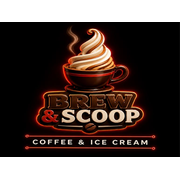
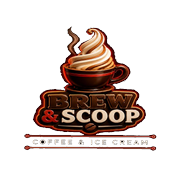
Fix washed-out sidebar and tighten profile layout.
Give the sidebar a solid espresso fallback so nav stays readable when derived CSS tokens fail, cache-bust static assets, and clean the logo plate for darker chrome.

diff --git a/static/css/layout/sidebar.css b/static/css/layout/sidebar.css
@@ -2,10 +2,16 @@
 
 .sidebar {
   width: var(--sidebar-width);
-  background:
-    linear-gradient(180deg, color-mix(in srgb, var(--caramel) 10%, transparent) 0%, transparent 38%),
-    linear-gradient(180deg, var(--espresso) 0%, var(--espresso-deep) 100%);
-  color: var(--cream);
+  /* Solid fallback first — if color-mix/gradients fail, nav stays readable */
+  background-color: var(--espresso, #2c1810);
+  background-image:
+    linear-gradient(180deg, color-mix(in srgb, var(--caramel, #c4a574) 10%, transparent) 0%, transparent 38%),
+    linear-gradient(
+      180deg,
+      var(--espresso, #2c1810) 0%,
+      var(--espresso-deep, #1f0f08) 100%
+    );
+  color: #f5e6d3;
   display: flex;
   flex-direction: column;
   position: fixed;
@@ -14,13 +20,13 @@
   bottom: 0;
   z-index: 100;
   padding: 1.35rem 0.85rem;
-  border-right: 1px solid color-mix(in srgb, var(--caramel) 22%, transparent);
-  box-shadow: 4px 0 40px color-mix(in srgb, var(--espresso) 18%, transparent);
+  border-right: 1px solid color-mix(in srgb, var(--caramel, #c4a574) 22%, transparent);
+  box-shadow: 4px 0 40px color-mix(in srgb, var(--espresso, #2c1810) 18%, transparent);
   overflow-x: hidden;
   overflow-y: auto;
   overscroll-behavior: contain;
   scrollbar-width: thin;
-  scrollbar-color: color-mix(in srgb, var(--caramel) 35%, transparent) transparent;
+  scrollbar-color: color-mix(in srgb, var(--caramel, #c4a574) 35%, transparent) transparent;
 }
 
 .sidebar::-webkit-scrollbar {
@@ -53,10 +59,14 @@
 
 .brand-logo {
   width: 100%;
-  max-width: 210px;
+  max-width: 200px;
   height: auto;
+  max-height: 132px;
   display: block;
   object-fit: contain;
+  border-radius: 12px;
+  background: rgba(0, 0, 0, 0.22);
+  padding: 0.35rem;
   filter: drop-shadow(0 4px 16px rgba(0, 0, 0, 0.35));
 }
 
@@ -311,10 +321,10 @@
   padding: 0.7rem 0.9rem;
   border: none;
   background: transparent;
-  color: color-mix(in srgb, var(--cream) 65%, transparent);
+  color: rgba(245, 230, 211, 0.88);
   font-family: var(--font-body);
   font-size: 0.875rem;
-  font-weight: 500;
+  font-weight: 600;
   border-radius: var(--radius-sm);
   cursor: pointer;
   transition: all var(--transition);
@@ -326,13 +336,13 @@
   width: 19px;
   height: 19px;
   flex-shrink: 0;
-  opacity: 0.75;
+  opacity: 0.9;
   transition: opacity var(--transition);
 }
 
 .nav-item:hover {
-  background: color-mix(in srgb, var(--cream) 7%, transparent);
-  color: var(--cream);
+  background: rgba(245, 230, 211, 0.1);
+  color: #faf6f1;
 }
 
 .nav-item:hover svg {
@@ -342,11 +352,11 @@
 .nav-item.active {
   background: linear-gradient(
     90deg,
-    color-mix(in srgb, var(--caramel) 34%, transparent) 0%,
-    color-mix(in srgb, var(--caramel) 10%, transparent) 100%
+    color-mix(in srgb, var(--caramel, #c4a574) 40%, transparent) 0%,
+    color-mix(in srgb, var(--caramel, #c4a574) 12%, transparent) 100%
   );
-  color: var(--cream);
-  box-shadow: inset 3px 0 0 var(--caramel);
+  color: #faf6f1;
+  box-shadow: inset 3px 0 0 var(--caramel, #c4a574);
 }
 
 .nav-item.active svg {
@@ -417,6 +427,7 @@
 .user-meta strong {
   display: block;
   font-size: 0.82rem;
+  color: #faf6f1;
   white-space: nowrap;
   overflow: hidden;
   text-overflow: ellipsis;
@@ -425,13 +436,13 @@
 .user-meta span {
   display: block;
   font-size: 0.68rem;
-  color: color-mix(in srgb, var(--cream) 55%, transparent);
+  color: rgba(245, 230, 211, 0.72);
   text-transform: capitalize;
 }
 
 .btn-logout {
   padding: 0.4rem;
-  color: color-mix(in srgb, var(--cream) 70%, transparent);
+  color: rgba(245, 230, 211, 0.82);
   flex-shrink: 0;
   border-radius: var(--radius-xs);
 }
@@ -442,7 +453,7 @@
 }
 
 .btn-logout:hover {
-  color: var(--cream);
+  color: #faf6f1;
   background: rgba(255, 255, 255, 0.1);
 }
 

diff --git a/templates/change-password.html b/templates/change-password.html
@@ -4,19 +4,19 @@
   <meta charset="UTF-8">
   <meta name="viewport" content="width=device-width, initial-scale=1.0, viewport-fit=cover">
   <title>Change Password — Brew & Scoop</title>
-  <link rel="icon" type="image/png" sizes="32x32" href="{{ url_for('static', filename='img/favicon-32.png') }}?v=brewscoop2">
-  <link rel="icon" type="image/png" href="{{ url_for('static', filename='img/logo.png') }}?v=brewscoop2">
-  <link rel="apple-touch-icon" href="{{ url_for('static', filename='img/apple-touch-icon.png') }}?v=brewscoop2">
+  <link rel="icon" type="image/png" sizes="32x32" href="{{ url_for('static', filename='img/favicon-32.png') }}?v=brewscoop3">
+  <link rel="icon" type="image/png" href="{{ url_for('static', filename='img/logo.png') }}?v=brewscoop3">
+  <link rel="apple-touch-icon" href="{{ url_for('static', filename='img/apple-touch-icon.png') }}?v=brewscoop3">
   <link rel="preconnect" href="https://fonts.googleapis.com">
   <link rel="preconnect" href="https://fonts.gstatic.com" crossorigin>
   <link href="https://fonts.googleapis.com/css2?family=Fraunces:ital,opsz,wght@0,9..144,500;0,9..144,600;0,9..144,700;1,9..144,500&family=Plus+Jakarta+Sans:ital,wght@0,400;0,500;0,600;0,700;1,400&display=swap" rel="stylesheet">
-  <link rel="stylesheet" href="{{ url_for('static', filename='css/login-main.css') }}">
+  <link rel="stylesheet" href="{{ url_for('static', filename='css/login-main.css') }}?v=brewscoop3">
 </head>
 <body class="login-page">
   <div class="login-layout">
     <aside class="login-hero">
       <img
-        src="{{ url_for('static', filename='img/logo.png') }}?v=brewscoop2"
+        src="{{ url_for('static', filename='img/logo.png') }}?v=brewscoop3"
         alt="Brew & Scoop"
         class="login-logo"
         width="380"

diff --git a/templates/forgot-password.html b/templates/forgot-password.html
@@ -4,19 +4,19 @@
   <meta charset="UTF-8">
   <meta name="viewport" content="width=device-width, initial-scale=1.0, viewport-fit=cover">
   <title>Forgot Password — Brew & Scoop</title>
-  <link rel="icon" type="image/png" sizes="32x32" href="{{ url_for('static', filename='img/favicon-32.png') }}?v=brewscoop2">
-  <link rel="icon" type="image/png" href="{{ url_for('static', filename='img/logo.png') }}?v=brewscoop2">
-  <link rel="apple-touch-icon" href="{{ url_for('static', filename='img/apple-touch-icon.png') }}?v=brewscoop2">
+  <link rel="icon" type="image/png" sizes="32x32" href="{{ url_for('static', filename='img/favicon-32.png') }}?v=brewscoop3">
+  <link rel="icon" type="image/png" href="{{ url_for('static', filename='img/logo.png') }}?v=brewscoop3">
+  <link rel="apple-touch-icon" href="{{ url_for('static', filename='img/apple-touch-icon.png') }}?v=brewscoop3">
   <link rel="preconnect" href="https://fonts.googleapis.com">
   <link rel="preconnect" href="https://fonts.gstatic.com" crossorigin>
   <link href="https://fonts.googleapis.com/css2?family=Fraunces:ital,opsz,wght@0,9..144,500;0,9..144,600;0,9..144,700;1,9..144,500&family=Plus+Jakarta+Sans:ital,wght@0,400;0,500;0,600;0,700;1,400&display=swap" rel="stylesheet">
-  <link rel="stylesheet" href="{{ url_for('static', filename='css/login-main.css') }}">
+  <link rel="stylesheet" href="{{ url_for('static', filename='css/login-main.css') }}?v=brewscoop3">
 </head>
 <body class="login-page">
   <div class="login-layout">
     <aside class="login-hero">
       <img
-        src="{{ url_for('static', filename='img/logo.png') }}?v=brewscoop2"
+        src="{{ url_for('static', filename='img/logo.png') }}?v=brewscoop3"
         alt="Brew & Scoop"
         class="login-logo"
         width="380"

diff --git a/templates/reset-password.html b/templates/reset-password.html
@@ -4,19 +4,19 @@
   <meta charset="UTF-8">
   <meta name="viewport" content="width=device-width, initial-scale=1.0, viewport-fit=cover">
   <title>Reset Password — Brew & Scoop</title>
-  <link rel="icon" type="image/png" sizes="32x32" href="{{ url_for('static', filename='img/favicon-32.png') }}?v=brewscoop2">
-  <link rel="icon" type="image/png" href="{{ url_for('static', filename='img/logo.png') }}?v=brewscoop2">
-  <link rel="apple-touch-icon" href="{{ url_for('static', filename='img/apple-touch-icon.png') }}?v=brewscoop2">
+  <link rel="icon" type="image/png" sizes="32x32" href="{{ url_for('static', filename='img/favicon-32.png') }}?v=brewscoop3">
+  <link rel="icon" type="image/png" href="{{ url_for('static', filename='img/logo.png') }}?v=brewscoop3">
+  <link rel="apple-touch-icon" href="{{ url_for('static', filename='img/apple-touch-icon.png') }}?v=brewscoop3">
   <link rel="preconnect" href="https://fonts.googleapis.com">
   <link rel="preconnect" href="https://fonts.gstatic.com" crossorigin>
   <link href="https://fonts.googleapis.com/css2?family=Fraunces:ital,opsz,wght@0,9..144,500;0,9..144,600;0,9..144,700;1,9..144,500&family=Plus+Jakarta+Sans:ital,wght@0,400;0,500;0,600;0,700;1,400&display=swap" rel="stylesheet">
-  <link rel="stylesheet" href="{{ url_for('static', filename='css/login-main.css') }}">
+  <link rel="stylesheet" href="{{ url_for('static', filename='css/login-main.css') }}?v=brewscoop3">
 </head>
 <body class="login-page">
   <div class="login-layout">
     <aside class="login-hero">
       <img
-        src="{{ url_for('static', filename='img/logo.png') }}?v=brewscoop2"
+        src="{{ url_for('static', filename='img/logo.png') }}?v=brewscoop3"
         alt="Brew & Scoop"
         class="login-logo"
         width="380"

diff --git a/templates/login.html b/templates/login.html
@@ -4,19 +4,19 @@
   <meta charset="UTF-8">
   <meta name="viewport" content="width=device-width, initial-scale=1.0, viewport-fit=cover">
   <title>Sign In — Brew & Scoop</title>
-  <link rel="icon" type="image/png" sizes="32x32" href="{{ url_for('static', filename='img/favicon-32.png') }}?v=brewscoop2">
-  <link rel="icon" type="image/png" href="{{ url_for('static', filename='img/logo.png') }}?v=brewscoop2">
-  <link rel="apple-touch-icon" href="{{ url_for('static', filename='img/apple-touch-icon.png') }}?v=brewscoop2">
+  <link rel="icon" type="image/png" sizes="32x32" href="{{ url_for('static', filename='img/favicon-32.png') }}?v=brewscoop3">
+  <link rel="icon" type="image/png" href="{{ url_for('static', filename='img/logo.png') }}?v=brewscoop3">
+  <link rel="apple-touch-icon" href="{{ url_for('static', filename='img/apple-touch-icon.png') }}?v=brewscoop3">
   <link rel="preconnect" href="https://fonts.googleapis.com">
   <link rel="preconnect" href="https://fonts.gstatic.com" crossorigin>
   <link href="https://fonts.googleapis.com/css2?family=Fraunces:ital,opsz,wght@0,9..144,500;0,9..144,600;0,9..144,700;1,9..144,500&family=Plus+Jakarta+Sans:ital,wght@0,400;0,500;0,600;0,700;1,400&display=swap" rel="stylesheet">
-  <link rel="stylesheet" href="{{ url_for('static', filename='css/login-main.css') }}">
+  <link rel="stylesheet" href="{{ url_for('static', filename='css/login-main.css') }}?v=brewscoop3">
 </head>
 <body class="login-page">
   <div class="login-layout">
     <aside class="login-hero">
       <img
-        src="{{ url_for('static', filename='img/logo.png') }}?v=brewscoop2"
+        src="{{ url_for('static', filename='img/logo.png') }}?v=brewscoop3"
         alt="Brew & Scoop"
         class="login-logo"
         width="380"

diff --git a/templates/index.html b/templates/index.html
@@ -14,13 +14,20 @@
   <link rel="preconnect" href="https://fonts.googleapis.com">
   <link rel="preconnect" href="https://fonts.gstatic.com" crossorigin>
   <link href="https://fonts.googleapis.com/css2?family=Fraunces:ital,opsz,wght@0,9..144,500;0,9..144,600;0,9..144,700;1,9..144,500&family=Plus+Jakarta+Sans:ital,wght@0,400;0,500;0,600;0,700;1,400&display=swap" rel="stylesheet">
-  <link rel="stylesheet" href="{{ url_for('static', filename='css/main.css') }}">
+  <link rel="stylesheet" href="{{ url_for('static', filename='css/main.css') }}?v=brewscoop3">
   <style id="business-branding-vars">
     :root {
       --espresso: {{ brand_primary }};
       --caramel: {{ brand_accent }};
       --brand-primary: {{ brand_primary }};
       --brand-accent: {{ brand_accent }};
+      --espresso-deep: color-mix(in srgb, {{ brand_primary }} 88%, black);
+      --espresso-light: color-mix(in srgb, {{ brand_primary }} 82%, white);
+      --coffee: color-mix(in srgb, {{ brand_primary }} 72%, white);
+      --caramel-light: color-mix(in srgb, {{ brand_accent }} 78%, white);
+      --cream: color-mix(in srgb, {{ brand_accent }} 28%, white);
+      --latte: color-mix(in srgb, {{ brand_accent }} 42%, white);
+      --foam: color-mix(in srgb, {{ brand_accent }} 10%, white);
     }
   </style>
 </head>
@@ -2757,6 +2764,6 @@
     }
   </script>
   <script src="https://cdn.jsdelivr.net/npm/chart.js@4.4.4/dist/chart.umd.min.js"></script>
-  <script src="{{ url_for('static', filename='js/app.js') }}"></script>
+  <script src="{{ url_for('static', filename='js/app.js') }}?v=brewscoop3"></script>
 </body>
 </html>

diff --git a/static/css/pages/profile.css b/static/css/pages/profile.css
@@ -26,8 +26,8 @@
 .profile-page {
   display: flex;
   flex-direction: column;
-  gap: 1.35rem;
-  max-width: 920px;
+  gap: 1.25rem;
+  max-width: 1080px;
   animation: profile-page-in 0.4s ease;
 }
 
@@ -173,13 +173,15 @@
 .profile-layout {
   display: grid;
   grid-template-columns: repeat(2, minmax(0, 1fr));
-  gap: 1.25rem;
-  align-items: start;
+  gap: 1.15rem;
+  align-items: stretch;
 }
 
 .profile-card {
+  height: 100%;
   transition: box-shadow var(--transition), transform var(--transition);
 }
+
 
 .profile-card:hover {
   box-shadow: var(--shadow-hover);
@@ -214,7 +216,8 @@
   border-top: 3px solid var(--caramel);
 }
 
-.profile-card-security {
+.profile-card.profile-card-security {
+  grid-column: 1 / -1;
   border-top: 3px solid var(--coffee);
 }
 

diff --git a/static/js/app.js b/static/js/app.js
@@ -990,7 +990,7 @@ function loadAdminView() {
 }
 
 const DEFAULT_BRANDING = {
-  logo_url: "/static/img/logo.png?v=brewscoop2",
+  logo_url: "/static/img/logo.png?v=brewscoop3",
   primary_color: "#2c1810",
   accent_color: "#c4a574",
 };
@@ -4342,7 +4342,7 @@ function invoiceExportFontLinks() {
 function cloneInvoicePrintArea() {
   const area = document.getElementById("invoice-print-area");
   if (!area) return null;
-  const logoSrc = area.querySelector(".invoice-logo")?.getAttribute("src") || "/static/img/logo.png?v=brewscoop2";
+  const logoSrc = area.querySelector(".invoice-logo")?.getAttribute("src") || "/static/img/logo.png?v=brewscoop3";
   const clone = area.cloneNode(true);
   const logo = clone.querySelector(".invoice-logo");
   if (logo) {

diff --git a/business.py b/business.py
@@ -11,7 +11,7 @@ ROLES = ("admin", "supervisor", "stock_manager", "seller")
 
 DEFAULT_PRIMARY_COLOR = "#2c1810"
 DEFAULT_ACCENT_COLOR = "#c4a574"
-DEFAULT_LOGO_URL = "/static/img/logo.png?v=brewscoop2"
+DEFAULT_LOGO_URL = "/static/img/logo.png?v=brewscoop3"
 # Previous Cundino defaults — migrated back to Brew & Scoop coffee palette.
 LEGACY_DEFAULT_PRIMARY_COLOR = "#012100"
 LEGACY_DEFAULT_ACCENT_COLOR = "#efd196"
